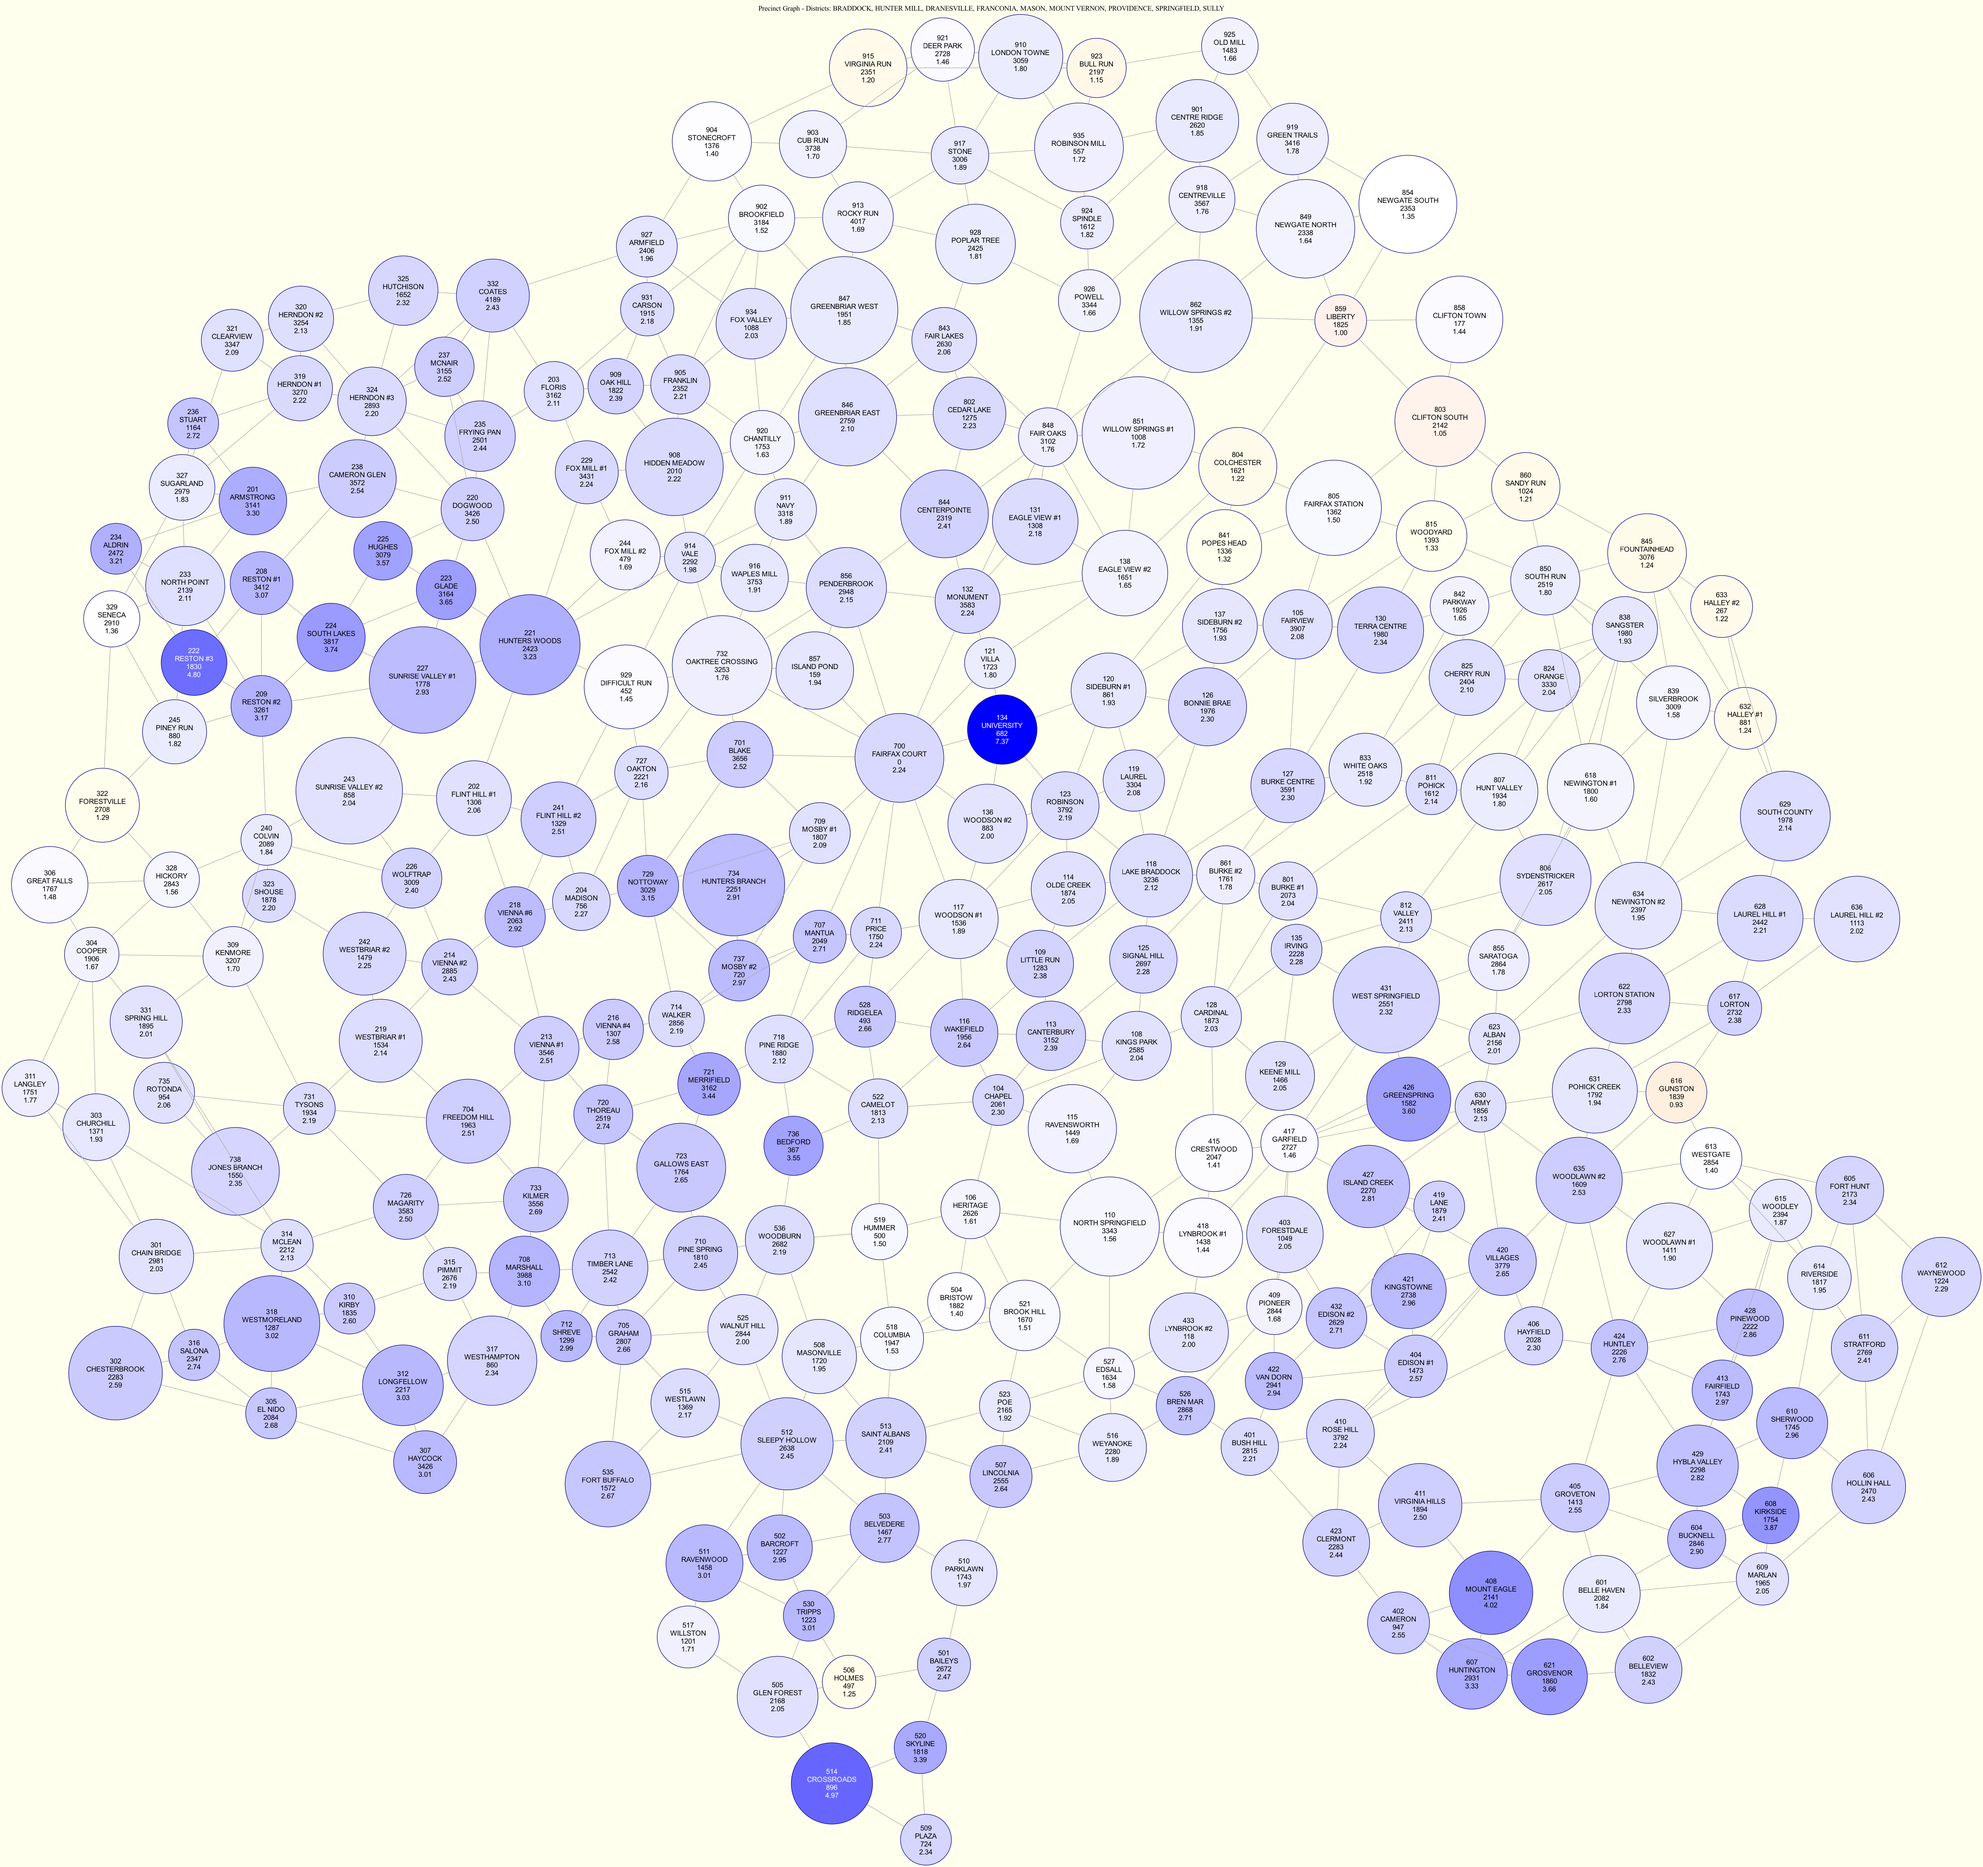
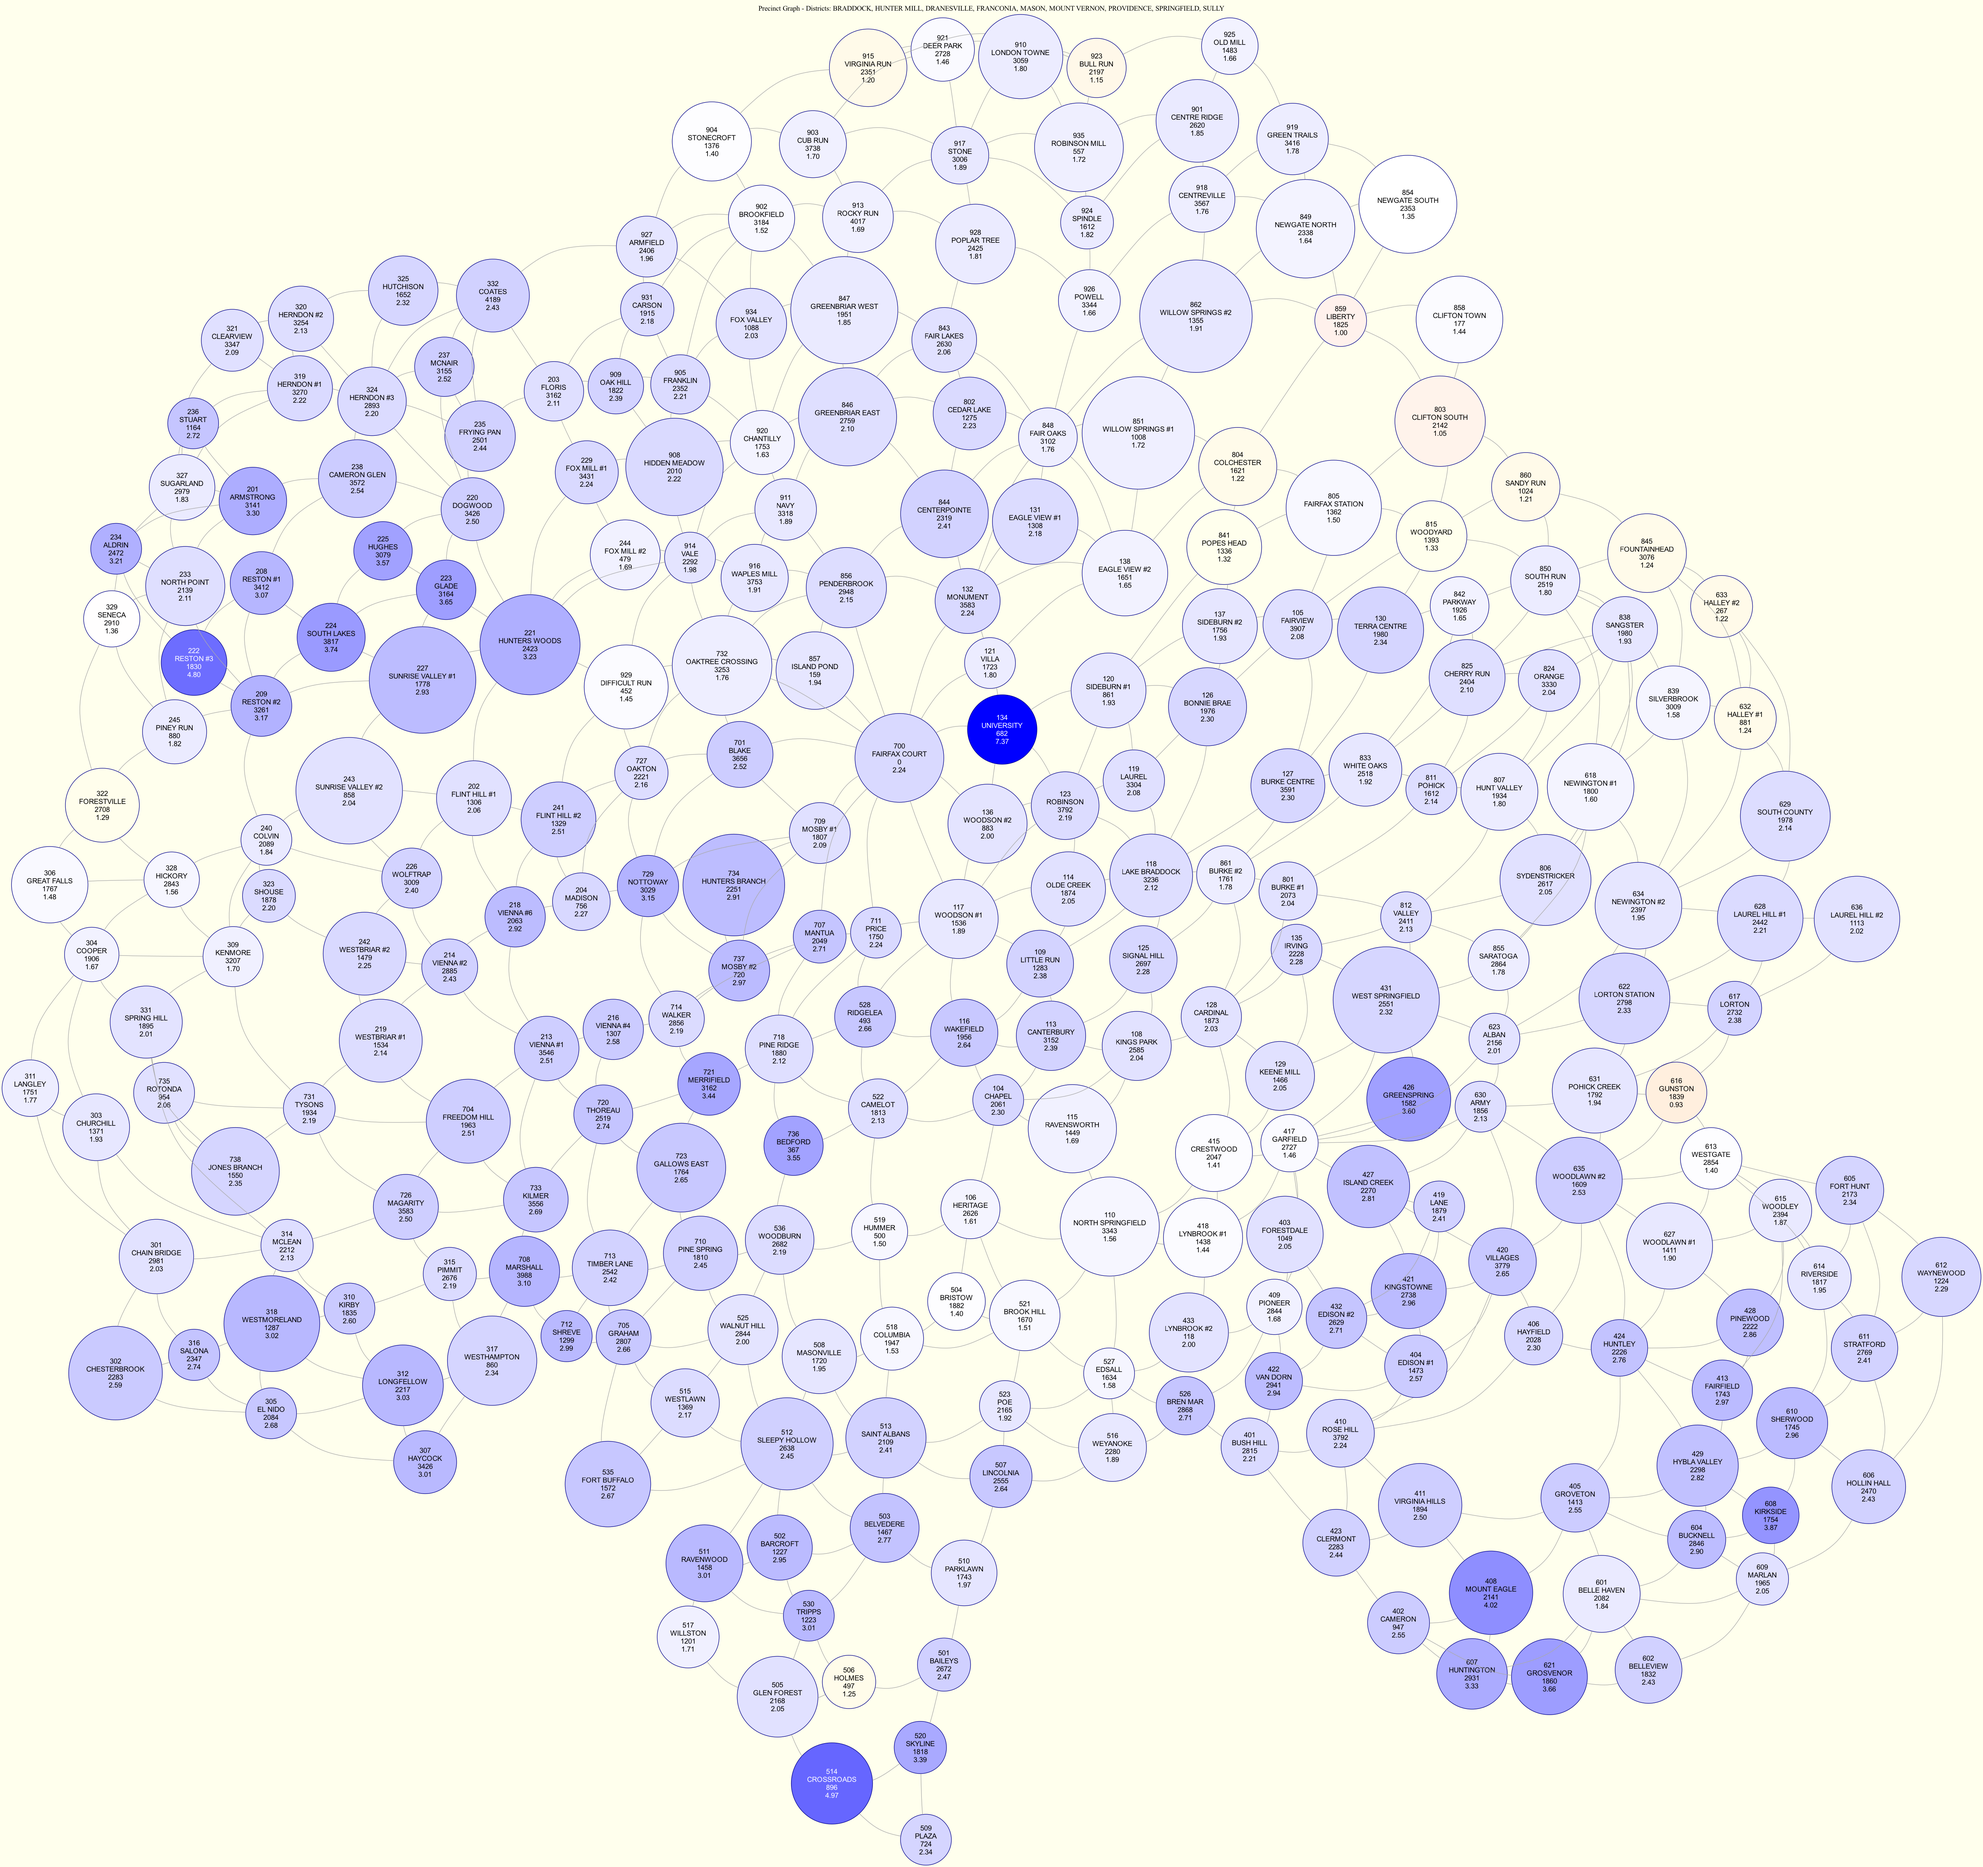
Change graph edge splines to curved for improved visualization

diff --git a/src/createPrecinctGraph.js b/src/createPrecinctGraph.js
@@ -4,7 +4,7 @@ function createPrecinctGraph() {
     let graph = 'graph G {\n';
     graph += '    layout=neato;\n';
     graph += '    overlap=false;\n';
-    graph += '    splines=true;\n';
+    graph += '    splines=curved;\n';
     graph += '    node [shape=circle, style=filled, color=darkblue, fontname="Arial"];\n';
     graph += '    edge [color=darkgray];\n';
     graph += '    bgcolor="#FFFFED";\n';
